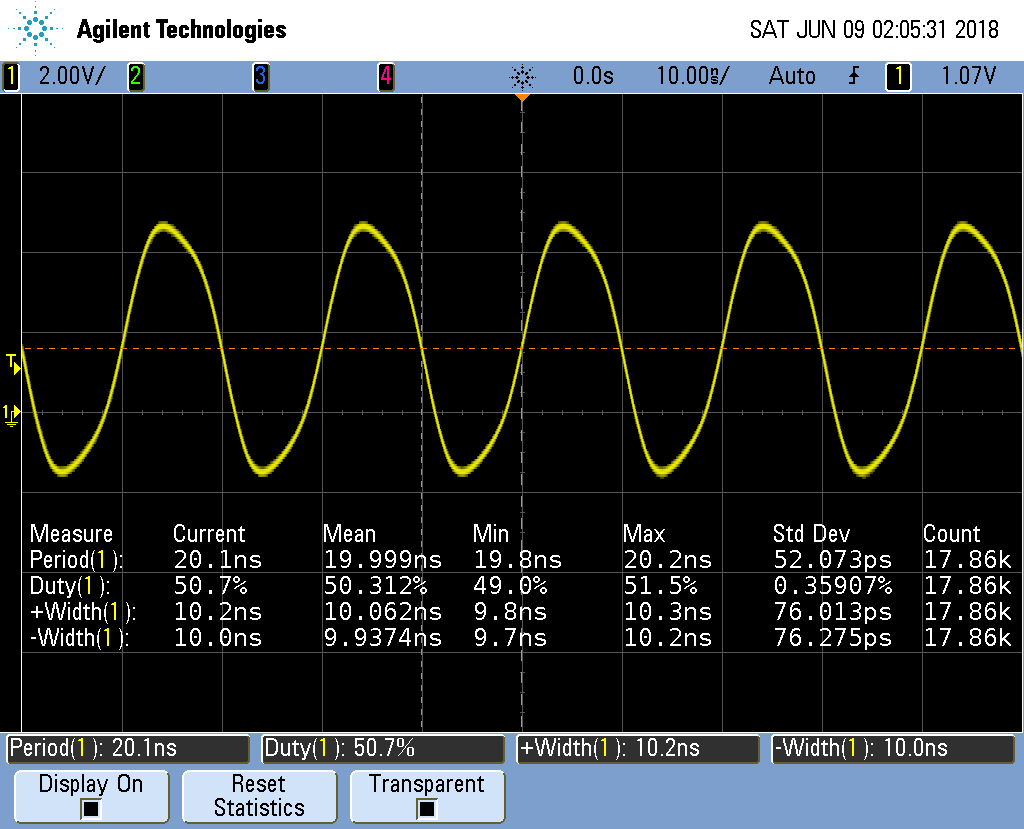
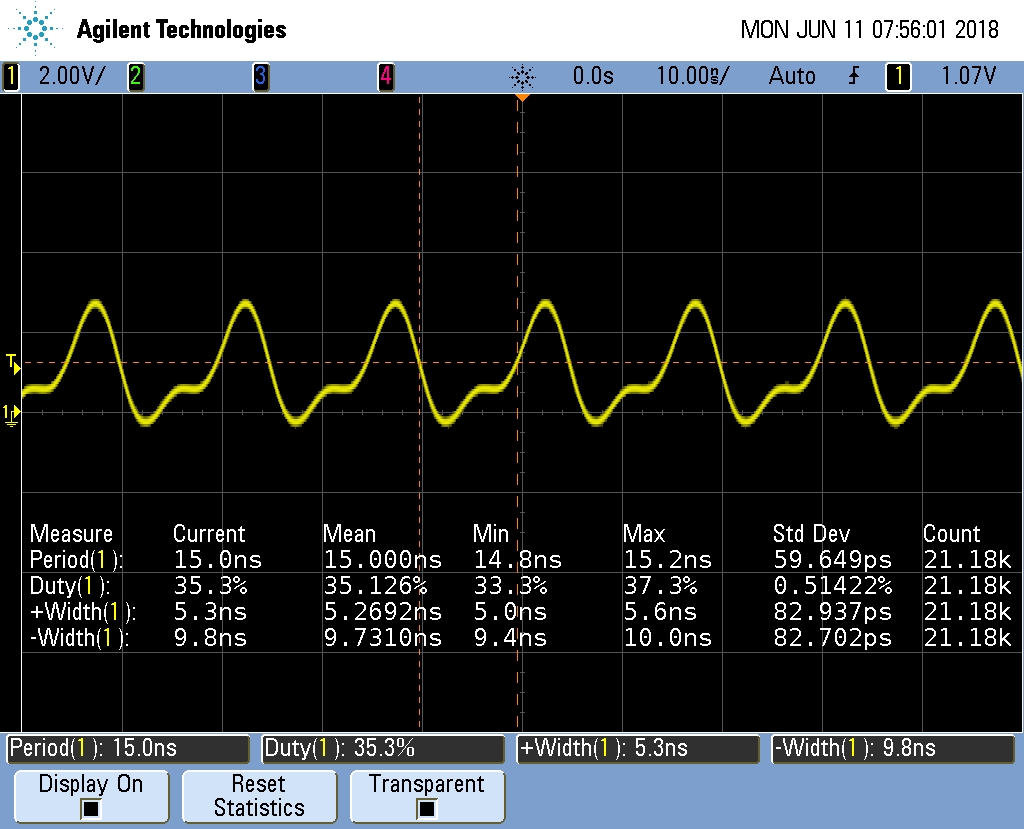
Added pwm2 case

diff --git a/docs/05blocks/code/pwm2.c b/docs/05blocks/code/pwm2.c
@@ -16,9 +16,9 @@ void main(void)
 
 	while (1) {
 		__R30 |= gpio;		// Set the GPIO pin to 1
-		__delay_cycles(100000000);
-		__R30 &= ~gpio;		// Clearn the GPIO pin
-		__delay_cycles(100000000);
+		__delay_cycles(1);	// Delay one cycle to correct for loop time
+		__R30 &= ~gpio;		// Clear the GPIO pin
+		__delay_cycles(0);
 	}
 }
 
